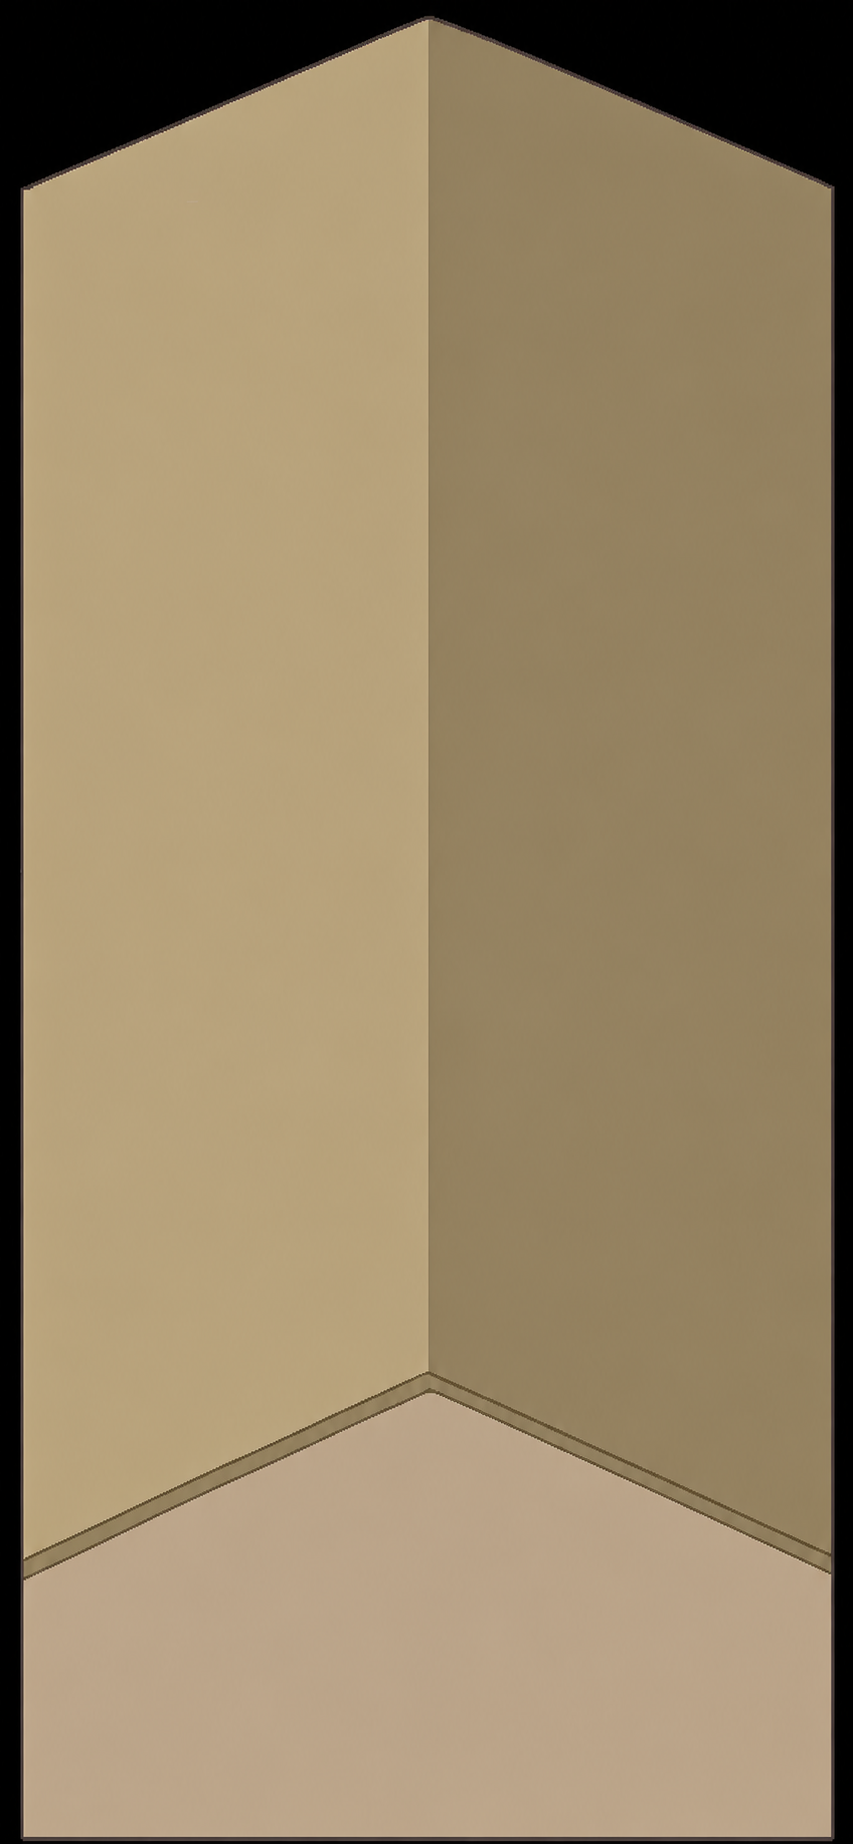
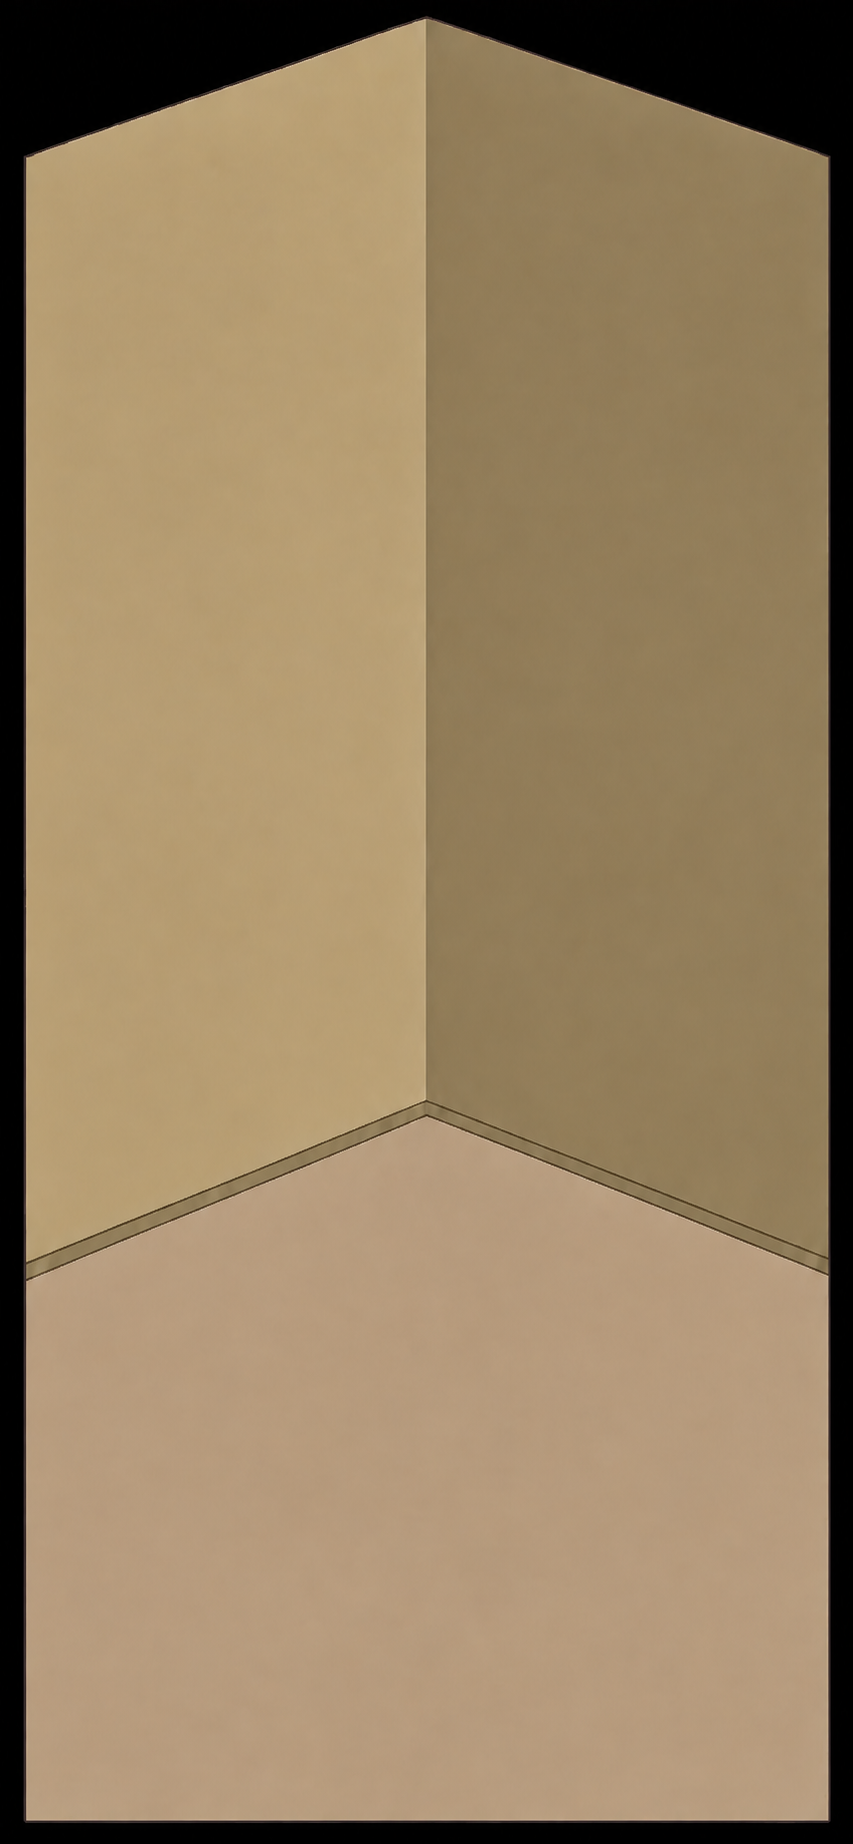
New room added

Changed region(s): [[0.0, 0.0, 1.0, 1.0]]

diff --git a/lib/tabs/home_page.dart b/lib/tabs/home_page.dart
@@ -15,6 +15,11 @@ const String kRoomBackgroundAsset = 'assets/images/room_bg.png';
 // How far up from the bottom of the screen the pet sits on the floor.
 const double kPetFloorOffset = 16.0;
 
+const Map<String, String> _kRoomBackgrounds = {
+  'room_bg': 'assets/images/room_bg.png',
+  'room_bg2': 'assets/images/room_bg2.png',
+};
+
 // Sofa asset variant map
 const Map<String, String> _kSofaAssets = {
   'brown': 'assets/images/furniture/sofa_brown.png',
@@ -240,28 +245,44 @@ class _HomePageState extends State<HomePage>
       children: [
         // ── Room background ────────────────────────────────────────────
         Positioned.fill(
-          child: Transform.scale(
-            scale: 1.18,
-            alignment: const Alignment(0, 0.18),
-            child: Image.asset(
-              kRoomBackgroundAsset,
-              fit: BoxFit.cover,
-              alignment: Alignment.bottomCenter,
-              errorBuilder: (context, error, stackTrace) {
-                return Container(
-                  decoration: BoxDecoration(
-                    gradient: LinearGradient(
-                      begin: Alignment.topCenter,
-                      end: Alignment.bottomCenter,
-                      colors: [
-                        cs.primaryContainer.withValues(alpha: 0.6),
-                        cs.surface,
-                      ],
-                    ),
-                  ),
-                );
-              },
-            ),
+          child: StreamBuilder<DocumentSnapshot>(
+            stream: user != null
+                ? FirebaseFirestore.instance
+                      .collection('users')
+                      .doc(user.uid)
+                      .snapshots()
+                : null,
+            builder: (context, snapshot) {
+              final data = snapshot.data?.data() as Map<String, dynamic>?;
+              final equippedRoomKey =
+                  (data?['equippedRoom'] as String?) ?? 'room_bg';
+              final roomAsset =
+                  _kRoomBackgrounds[equippedRoomKey] ?? kRoomBackgroundAsset;
+
+              return Transform.scale(
+                scale: 1.18,
+                alignment: const Alignment(0, 0.18),
+                child: Image.asset(
+                  roomAsset,
+                  fit: BoxFit.cover,
+                  alignment: Alignment.bottomCenter,
+                  errorBuilder: (context, error, stackTrace) {
+                    return Container(
+                      decoration: BoxDecoration(
+                        gradient: LinearGradient(
+                          begin: Alignment.topCenter,
+                          end: Alignment.bottomCenter,
+                          colors: [
+                            cs.primaryContainer.withValues(alpha: 0.6),
+                            cs.surface,
+                          ],
+                        ),
+                      ),
+                    );
+                  },
+                ),
+              );
+            },
           ),
         ),
 
@@ -589,7 +610,14 @@ class _FurnitureInventorySheet extends StatefulWidget {
 class _FurnitureInventorySheetState extends State<_FurnitureInventorySheet> {
   String _selectedCategory = 'Sofas';
 
-  final List<String> _categories = ['Sofas', 'Beds', 'Desks', 'Rugs', 'Decor'];
+  final List<String> _categories = [
+    'Rooms',
+    'Sofas',
+    'Beds',
+    'Desks',
+    'Rugs',
+    'Decor',
+  ];
 
   @override
   Widget build(BuildContext context) {
@@ -752,6 +780,129 @@ class _FurnitureInventorySheetState extends State<_FurnitureInventorySheet> {
                             final equippedSofa =
                                 (userData?['equippedSofa'] as String?) ??
                                 'brown';
+                            final equippedRoom =
+                                (userData?['equippedRoom'] as String?) ??
+                                'room_bg';
+
+                            final isRoomCategory =
+                                _selectedCategory.toLowerCase() == 'rooms';
+                            if (isRoomCategory) {
+                              final roomKeys = _kRoomBackgrounds.keys.toList();
+                              return GridView.builder(
+                                physics: const BouncingScrollPhysics(),
+                                gridDelegate:
+                                    const SliverGridDelegateWithFixedCrossAxisCount(
+                                      crossAxisCount: 2,
+                                      mainAxisSpacing: 12,
+                                      crossAxisSpacing: 12,
+                                      childAspectRatio: 1.5,
+                                    ),
+                                itemCount: roomKeys.length,
+                                itemBuilder: (context, index) {
+                                  final roomKey = roomKeys[index];
+                                  final isEquipped = roomKey == equippedRoom;
+
+                                  return GestureDetector(
+                                    onTap: () async {
+                                      if (!isEquipped &&
+                                          user != null &&
+                                          user.email != null) {
+                                        final firestore =
+                                            FirebaseFirestore.instance;
+                                        final userDoc = await firestore
+                                            .collection('users')
+                                            .doc(user.uid)
+                                            .get();
+                                        final data = userDoc.data() ?? {};
+                                        final partnerEmail =
+                                            ((data['partnerEmailLower']
+                                                        as String?) ??
+                                                    (data['partnerEmail']
+                                                        as String?) ??
+                                                    '')
+                                                .trim()
+                                                .toLowerCase();
+
+                                        final userQuery = await firestore
+                                            .collection('users')
+                                            .where(
+                                              'email',
+                                              isEqualTo: user.email,
+                                            )
+                                            .get();
+                                        final partnerQuery =
+                                            partnerEmail.isNotEmpty
+                                            ? await firestore
+                                                  .collection('users')
+                                                  .where(
+                                                    'email',
+                                                    isEqualTo: partnerEmail,
+                                                  )
+                                                  .get()
+                                            : null;
+
+                                        final batch = firestore.batch();
+                                        for (final doc in userQuery.docs) {
+                                          batch.set(doc.reference, {
+                                            'equippedRoom': roomKey,
+                                          }, SetOptions(merge: true));
+                                        }
+                                        if (partnerQuery != null) {
+                                          for (final doc in partnerQuery.docs) {
+                                            batch.set(
+                                              doc.reference,
+                                              {'equippedRoom': roomKey},
+                                              SetOptions(merge: true),
+                                            );
+                                          }
+                                        }
+                                        await batch.commit();
+                                      }
+                                    },
+                                    child: AnimatedContainer(
+                                      duration: const Duration(
+                                        milliseconds: 200,
+                                      ),
+                                      decoration: BoxDecoration(
+                                        borderRadius: BorderRadius.circular(16),
+                                        border: Border.all(
+                                          color: isEquipped
+                                              ? cs.primary
+                                              : cs.outlineVariant,
+                                          width: isEquipped ? 2 : 1,
+                                        ),
+                                      ),
+                                      child: ClipRRect(
+                                        borderRadius: BorderRadius.circular(14),
+                                        child: Stack(
+                                          fit: StackFit.expand,
+                                          children: [
+                                            Image.asset(
+                                              _kRoomBackgrounds[roomKey]!,
+                                              fit: BoxFit.cover,
+                                              alignment: Alignment.bottomCenter,
+                                            ),
+                                            if (isEquipped)
+                                              Container(
+                                                color: cs.primary.withValues(
+                                                  alpha: 0.2,
+                                                ),
+                                                child: Center(
+                                                  child: Icon(
+                                                    Icons.check_circle_rounded,
+                                                    color: cs.primary,
+                                                    size: 28,
+                                                  ),
+                                                ),
+                                              ),
+                                          ],
+                                        ),
+                                      ),
+                                    ),
+                                  );
+                                },
+                              );
+                            }
 
                             final docs = furnitureSnapshot.data!.docs;
 
